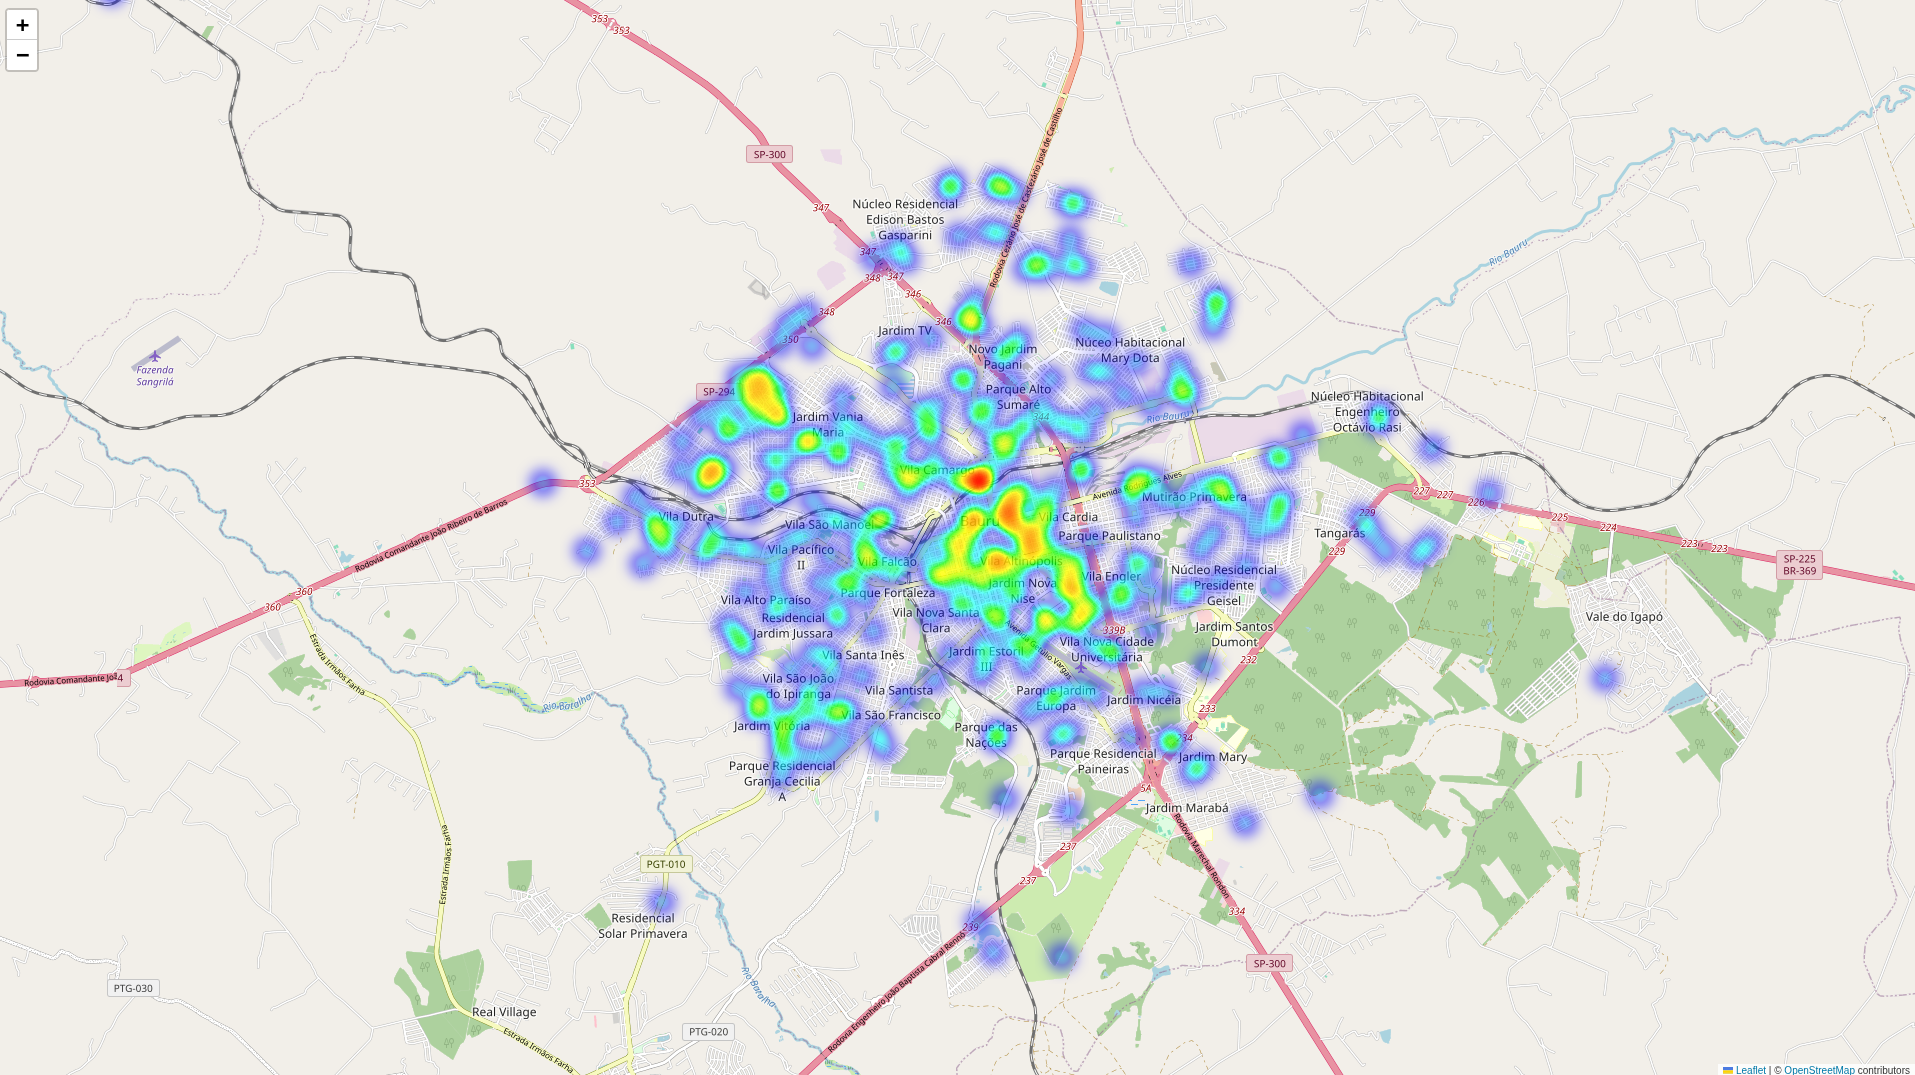
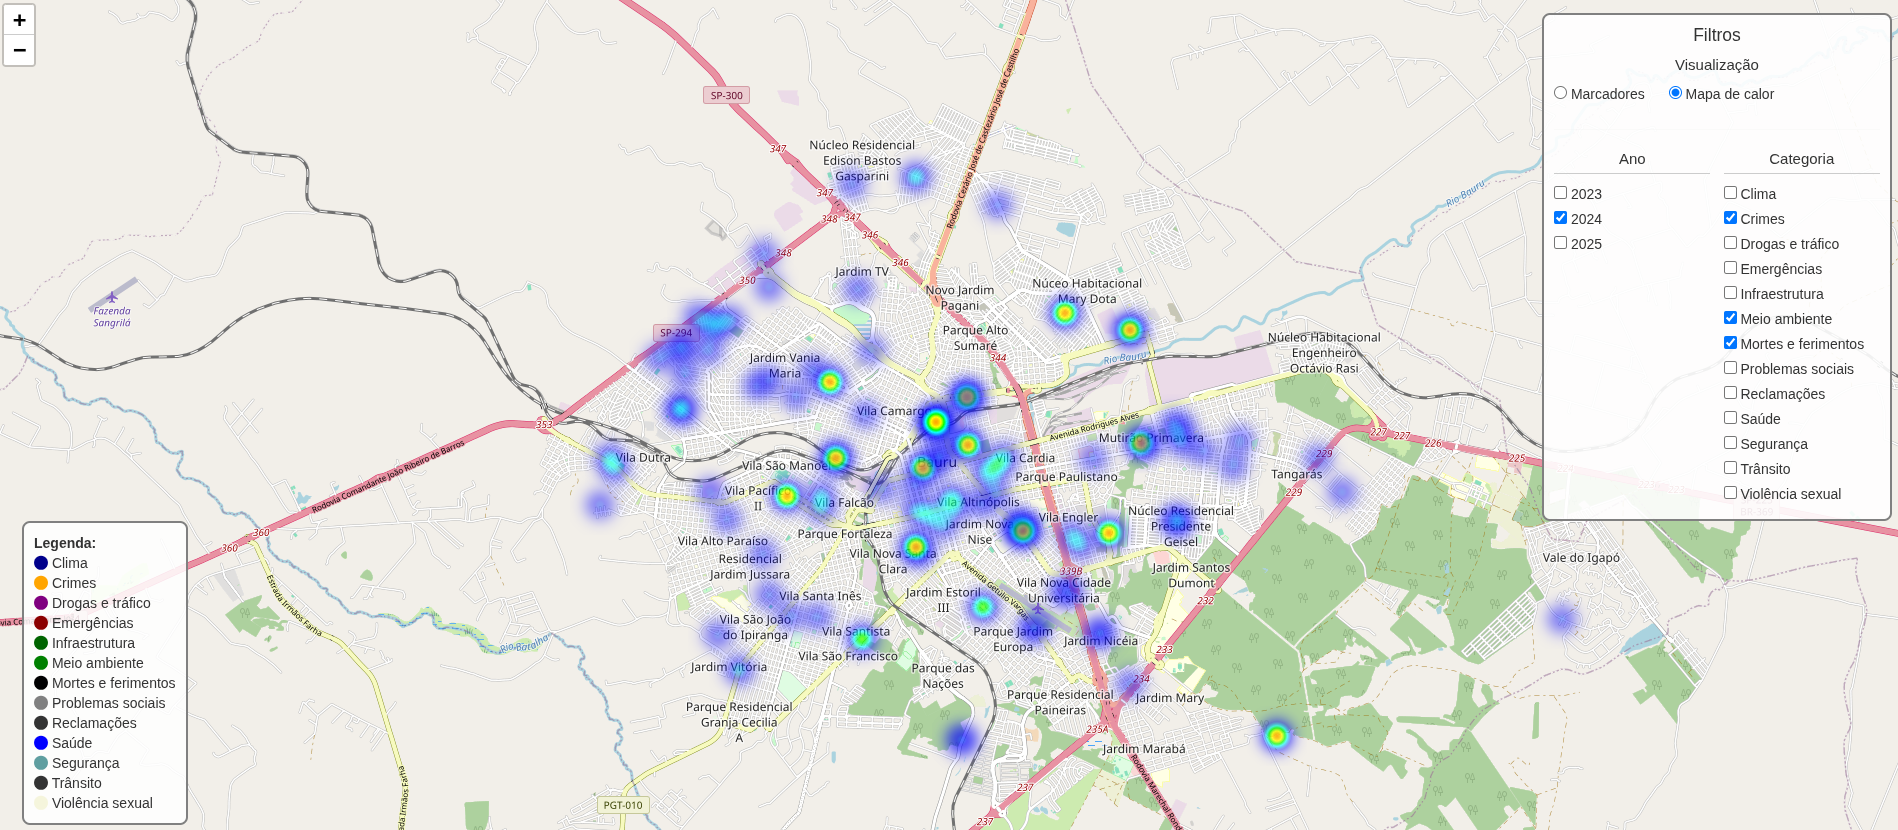
update README.md

diff --git a/README.md b/README.md
@@ -8,10 +8,10 @@ Este projeto utiliza técnicas de Ciência de Dados e *Web Scraping* para coleta
 
 ## ✨ Funcionalidades Implementadas
 
-- **Mapa interativo detalhado:** Visualização de ocorrências com marcadores individuais, popups informativos e um painel de filtros avançado. ![Mapa Interativo](/images/smart-bauru.png)
-- **Mapa de calor:** Geração de um mapa de calor separado que mostra a concentração de **todas** as ocorrências, ideal para uma análise macro dos principais *hotspots* da cidade. ![Mapa de Calor](/images/mapa-calor.png)
-- **Análise de recorrência:** Um *script* dedicado identifica e mapeia os locais exatos onde tipos de problemas específicos acontecem repetidamente, apontando para questões crônicas. ![Mapa de Recorrência](/images/mapa-recorrencias.png)
-- **Análises específicas:** Exemplos de como analisar os dados para extrair *insights*, como análises sazonais e comparações entre ocorrências de importantes bairros da cidade.
+- **Mapa de ocorrências:** Visualização de ocorrências com marcadores, popups informativos e um painel de filtros avançado com anos e categoria. ![Mapa de ocorrênias](/images/mapa-ocorrencias.png)
+- **Mapa de calor:** Mapa de calor com os mesmos filtros de anos e categorias, ideal para uma análise macro dos principais *hotspots* da cidade. ![Mapa de calor](/images/mapa-calor.png)
+- **Análise de recorrência:** Um *script* dedicado identifica e mapeia os locais exatos onde tipos de problemas específicos acontecem repetidamente, apontando para questões crônicas. ![Mapa de recorrência](/images/mapa-recorrencias.jpeg)
+- **Análises específicas:** Exemplos de como analisar os dados para extrair *insights*, como análises sazonais e comparações entre ocorrências de importantes bairros da cidade. ![Comparação de bairros](/images/comparacao-bairros.png)
 
 ## 🛠 Tecnologias Utilizadas
 
